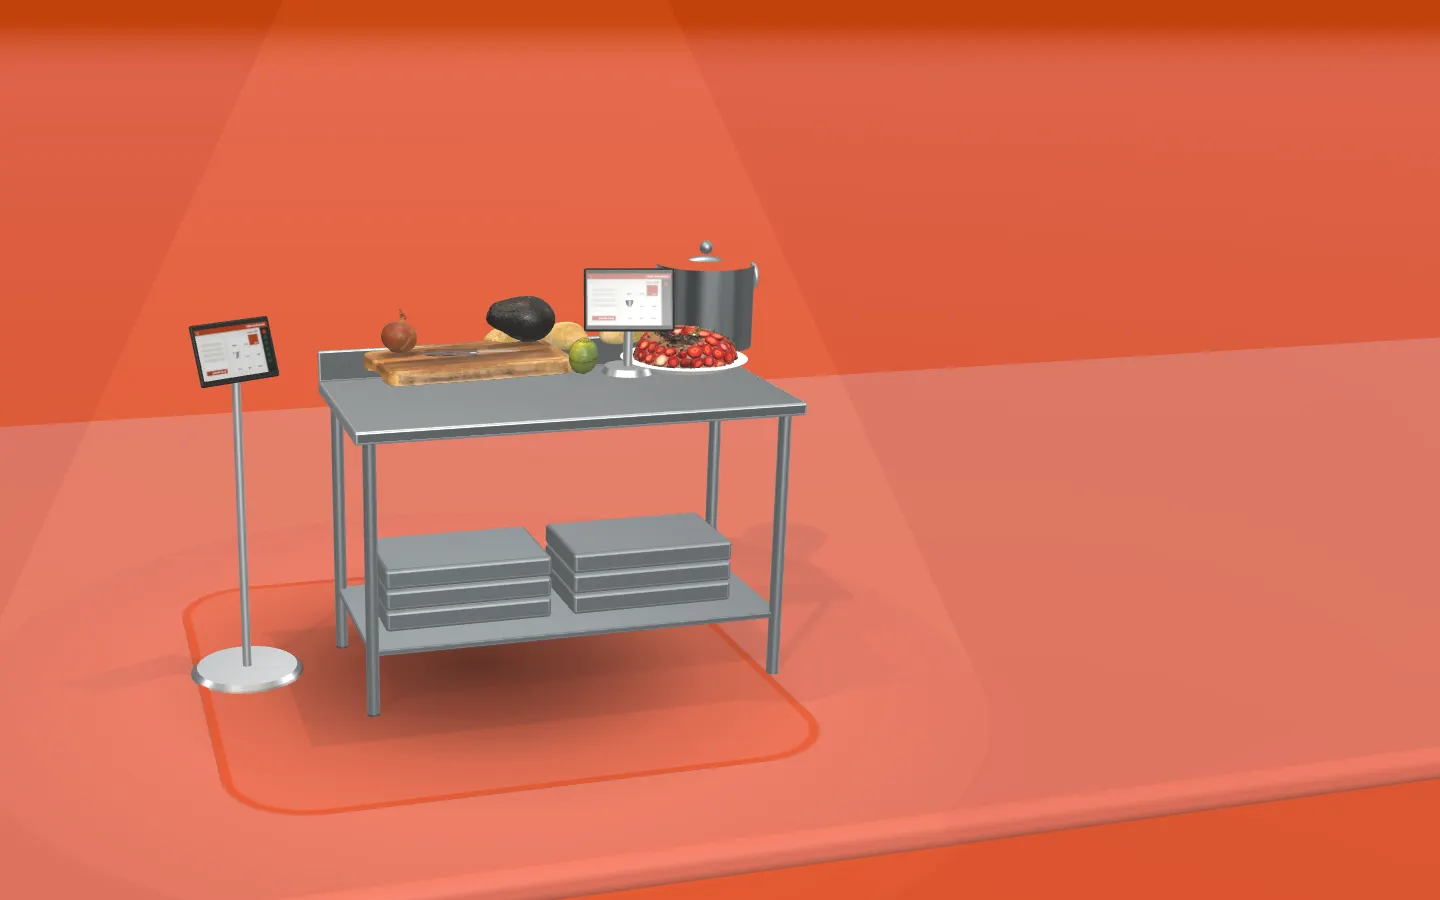
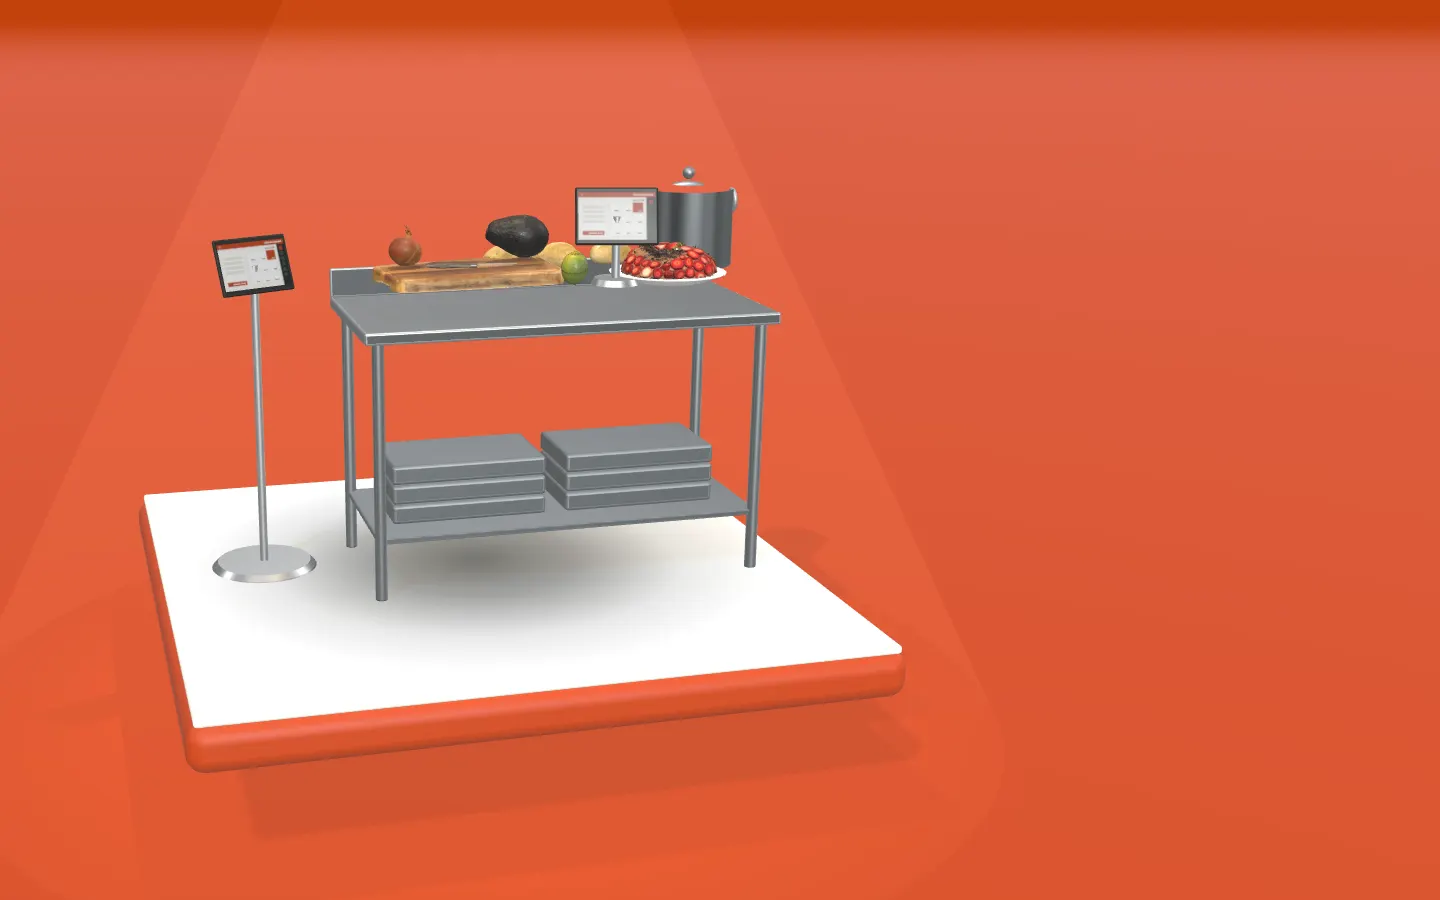
Hero: systems on floating tiles in a compact cluster under the lamp; align the bottom row

diff --git a/src/three/Showroom.tsx b/src/three/Showroom.tsx
@@ -156,16 +156,15 @@ function buildStation(index: number, scenes: Record<string, THREE.Object3D>) {
   return outer
 }
 
-/** Spots stand in one line, alternating slightly forward and back. */
-/** The shared platform all systems stand on: one company, one floor. */
-const PLATFORM = {
-  w: (STATIONS.length - 1) * GALLERY.gap + GALLERY.zone + 0.9,
-  d: 2 * GALLERY.stagger + GALLERY.zone + 0.9,
-  h: 0.12,
-}
+/**
+ * The systems stand on slim floating tiles that nest in a two-row brick pattern,
+ * seen from above at an angle: separate products, one cluster, one company.
+ */
+const TILE = { size: GALLERY.tile, gap: GALLERY.tileGap, h: GALLERY.tileHeight }
+const HALF = (TILE.size + TILE.gap) / 2
 
 function spotPos(i: number) {
-  return { x: (i - (STATIONS.length - 1) / 2) * GALLERY.gap, z: i % 2 ? -GALLERY.stagger : GALLERY.stagger }
+  return { x: (i - (STATIONS.length - 1) / 2) * HALF * 1.0, z: i % 2 ? HALF : -HALF, ry: 0 }
 }
 
 /* ---------- camera choreography ---------- */
@@ -176,7 +175,7 @@ interface View {
 }
 
 const FOV = 30
-const HALF_ROW = PLATFORM.w / 2
+const HALF_ROW = ((STATIONS.length - 1) / 2) * HALF + TILE.size / 2
 
 function viewFor(stop: number, mobile: boolean, aspect: number): View {
   if (stop === 0) {
@@ -191,7 +190,8 @@ function viewFor(stop: number, mobile: boolean, aspect: number): View {
   const shot = STATIONS[stop - 1].shot
   const d = shot.dist * (mobile ? 1.5 : 1)
   return {
-    pos: new THREE.Vector3(p.x + Math.sin(shot.az) * d, shot.height * (mobile ? 1.15 : 1), p.z + Math.cos(shot.az) * d),
+    // the shot angle is measured from the front of the station, which faces outward
+    pos: new THREE.Vector3(p.x + Math.sin(shot.az + p.ry) * d, shot.height * (mobile ? 1.15 : 1), p.z + Math.cos(shot.az + p.ry) * d),
     look: new THREE.Vector3(p.x, shot.look, p.z),
     layout: shot.layout,
   }
@@ -207,7 +207,6 @@ function shiftFor(layout: View['layout'], mobile: boolean): [number, number] {
 }
 
 const ease = (t: number) => t * t * (3 - 2 * t)
-const PLATFORM_TINT = new THREE.Color('#ffffff')
 
 /* ---------- the lamp that hangs over the gallery and follows the visitor ---------- */
 function useLamp(scenes: Record<string, THREE.Object3D>) {
@@ -341,8 +340,6 @@ function CameraRig({ fixedStop, reduced, mobile, centered, sun, hemi, lamp, intr
     if (scene.background instanceof THREE.Color) scene.background.copy(bg)
     if (scene.fog) scene.fog.color.copy(bg)
     scene.userData.floor?.color.copy(bg)
-    // the platform is the stop colour, a shade lighter, so it reads as one floor
-    scene.userData.platform?.color.copy(bg).lerp(PLATFORM_TINT, a === 0 && t < 0.5 ? 0.25 : 0.07)
 
     if (sun.current) {
       sun.current.intensity = SUN * room
@@ -424,56 +421,28 @@ const SHADOW_TEX = (() => {
   return new THREE.CanvasTexture(c)
 })()
 
-/** Each system's zone on the shared platform: a rounded tile in its colour with a fine outline. */
-const ZONE_TEX = (() => {
-  const c = document.createElement('canvas')
-  c.width = c.height = 256
-  const x = c.getContext('2d')!
-  x.beginPath()
-  x.roundRect(6, 6, 244, 244, 34)
-  x.fillStyle = 'rgba(255,255,255,.3)'
-  x.fill()
-  x.lineWidth = 4
-  x.strokeStyle = 'rgba(255,255,255,.95)'
-  x.stroke()
-  const t = new THREE.CanvasTexture(c)
-  t.colorSpace = THREE.SRGBColorSpace
-  t.anisotropy = 4
-  return t
-})()
-
-function Platform() {
-  const mesh = useMemo(() => {
-    const m = new THREE.Mesh(new RoundedBoxGeometry(PLATFORM.w, PLATFORM.h, PLATFORM.d, 4, 0.05), new THREE.MeshStandardMaterial({ color: '#d9d4c9', roughness: 0.6, metalness: 0.05 }))
-    m.position.y = PLATFORM.h / 2
+/** A floating tile: a slab in the system colour with a light top, and a soft contact shadow. */
+const TILE_TOP = new THREE.MeshStandardMaterial({ color: '#f4f1eb', roughness: 0.55 })
+function tile(color: string) {
+  const g = new THREE.Group()
+  const base = new THREE.Mesh(new RoundedBoxGeometry(TILE.size, TILE.h, TILE.size, 4, 0.06), new THREE.MeshStandardMaterial({ color, roughness: 0.5 }))
+  base.position.y = TILE.h / 2
+  const top = new THREE.Mesh(new RoundedBoxGeometry(TILE.size - 0.05, 0.03, TILE.size - 0.05, 3, 0.012), TILE_TOP)
+  top.position.y = TILE.h + 0.005
+  ;[base, top].forEach((m) => {
     m.receiveShadow = true
     m.castShadow = true
-    return m
-  }, [])
-  const { scene } = useThree()
-  useEffect(() => {
-    scene.userData.platform = mesh.material
-  }, [scene, mesh])
-  return <primitive object={mesh} />
-}
-
-function pool(color: string) {
-  const g = new THREE.Group()
-  const m = new THREE.Mesh(
-    new THREE.PlaneGeometry(GALLERY.zone, GALLERY.zone).rotateX(-Math.PI / 2),
-    new THREE.MeshStandardMaterial({ color, map: ZONE_TEX, transparent: true, roughness: 0.9, depthWrite: false }),
-  )
-  m.position.y = 0.004
-  m.receiveShadow = true
-  // A soft contact shadow so each group sits on the floor instead of floating.
+  })
   const contact = new THREE.Mesh(
-    new THREE.CircleGeometry(GALLERY.stationSize * 0.55, 48).rotateX(-Math.PI / 2),
+    new THREE.PlaneGeometry(TILE.size * 0.92, TILE.size * 0.92).rotateX(-Math.PI / 2),
     new THREE.MeshBasicMaterial({ map: SHADOW_TEX, transparent: true, depthWrite: false }),
   )
-  contact.position.y = 0.008
-  g.add(m, contact)
+  contact.position.y = TILE.h + 0.025
+  g.add(base, top, contact)
   return g
 }
+/** Height of a tile's top surface, where the station stands. */
+const TILE_TOP_Y = TILE.h + 0.022
 
 function Stations({ interactive, fixedStop, reduced, onLamp }: { interactive: boolean; fixedStop?: number; reduced: boolean; onLamp: (l: ReturnType<typeof useLamp>) => void }) {
   const gltfs = useGLTF(MODEL_FILES.map(url))
@@ -486,23 +455,27 @@ function Stations({ interactive, fixedStop, reduced, onLamp }: { interactive: bo
   const lamp = useLamp(scenes)
   useEffect(() => onLamp(lamp), [lamp, onLamp])
 
-  const { groups, outers, zones } = useMemo(() => {
+  const { groups, outers, floats } = useMemo(() => {
     const groups: THREE.Group[] = []
-    const zones: THREE.Group[] = []
+    const floats: THREE.Group[] = []
     const outers = STATIONS.map((_, i) => {
       const g = buildStation(i, scenes)
       groups.push(g)
       const outer = new THREE.Group()
       const p = spotPos(i)
-      outer.position.set(p.x, PLATFORM.h, p.z)
-      const zone = pool(tourStops[i].color)
-      const contact = zone.children[1]
-      outer.add(contact, g)
-      zone.position.set(p.x, PLATFORM.h, p.z)
-      zones.push(zone)
+      outer.position.set(p.x, 0.35, p.z)
+      outer.rotation.y = p.ry
+      // the tile and its station float together
+      const float = new THREE.Group()
+      const holder = new THREE.Group()
+      holder.position.y = TILE_TOP_Y
+      holder.add(g)
+      float.add(tile(tourStops[i].color), holder)
+      outer.add(float)
+      floats.push(float)
       return outer
     })
-    return { groups, outers, zones }
+    return { groups, outers, floats }
   }, [scenes])
   const shown = useRef(STATIONS.map(() => 1))
 
@@ -519,7 +492,8 @@ function Stations({ interactive, fixedStop, reduced, onLamp }: { interactive: bo
       const e = v * v * (3 - 2 * v)
       outers[i].scale.setScalar(Math.max(0.001, e))
       outers[i].visible = e > 0.01
-      ;((zones[i].children[0] as THREE.Mesh).material as THREE.MeshStandardMaterial).opacity = e
+      // tiles drift gently, each on its own beat
+      floats[i].position.y = reduced ? 0 : Math.sin(time * 0.8 + i * 0.9) * 0.05
       const lift = interactive && hover === i && tour.pos < 0.3 ? 0.22 : 0
       g.position.y += (lift - g.position.y) * k
       const focus = Math.max(0, 1 - Math.abs(pos - (i + 1)))
@@ -537,10 +511,6 @@ function Stations({ interactive, fixedStop, reduced, onLamp }: { interactive: bo
 
   return (
     <>
-      <Platform />
-      {zones.map((z, i) => (
-        <primitive key={'z' + i} object={z} />
-      ))}
       <primitive object={lamp.rig} />
       <primitive object={lamp.beam} />
       <primitive object={lamp.spot} />

diff --git a/src/three/stations.ts b/src/three/stations.ts
@@ -155,18 +155,18 @@ export const STATIONS: Station[] = [
 ]
 
 export const GALLERY = {
-  gap: 1.75, // distance between neighbouring systems along the platform
-  stagger: 1.25, // systems alternate between a back row and a front row by this much
-  zone: 2.1, // size of each system's coloured zone on the shared platform
-  stationSize: 2.2, // every station is scaled to this footprint
-  heroFill: 0.8, // share of the screen width the platform fills in the opening view
+  tile: 2.3, // each system stands on a floating tile this wide
+  tileGap: 0.3, // space between tiles
+  tileHeight: 0.16, // thickness of a tile
+  stationSize: 2.0, // every station is scaled to this footprint
+  heroFill: 0.5, // share of the screen width the cluster fills in the opening view
 }
 
 /** The lamp: how high it hangs over the overview and over each system. */
-export const LAMP = { file: 'modern_ceiling_lamp_01', scale: 1.7, heroHeight: 8.2, stopHeight: 5.4, heroAngle: 0.98, stopAngle: 0.5 }
+export const LAMP = { file: 'modern_ceiling_lamp_01', scale: 1.7, heroHeight: 6.4, stopHeight: 5.4, heroAngle: 1.05, stopAngle: 0.5 }
 
 /** The opening view: the whole line, seen from the front. The distance is fitted to the screen width at runtime. */
-export const HERO_SHOT = { pos: [0, 12, 31] as const, look: [0, 0.6, 0] as const }
+export const HERO_SHOT = { pos: [0, 14, 27] as const, look: [0, 1.6, 0] as const }
 /** On phones the line is seen end-on so it fits the narrow screen. */
 export const HERO_SHOT_MOBILE = { pos: [-40, 36, 14] as const, look: [1.5, 0, 0] as const }
 

diff --git a/src/styles/tour.css b/src/styles/tour.css
@@ -842,12 +842,21 @@ html.is-locked body {
 /* the proof line shares the bottom row with the stop list */
 @media (min-width: 768px) {
   .stop--hero .s-work {
-    bottom: 50px;
+    bottom: 16px;
+    height: 40px;
+    display: flex;
+    align-items: center;
     width: auto;
     max-width: calc(100vw - 2 * var(--gutter) - 640px);
   }
   .stop--hero .proof {
     border-top: 0;
     padding-top: 0;
+    align-items: center;
+    flex-wrap: nowrap;
+    white-space: nowrap;
+  }
+  .stop--hero .proof ul {
+    flex-wrap: nowrap;
   }
 }
